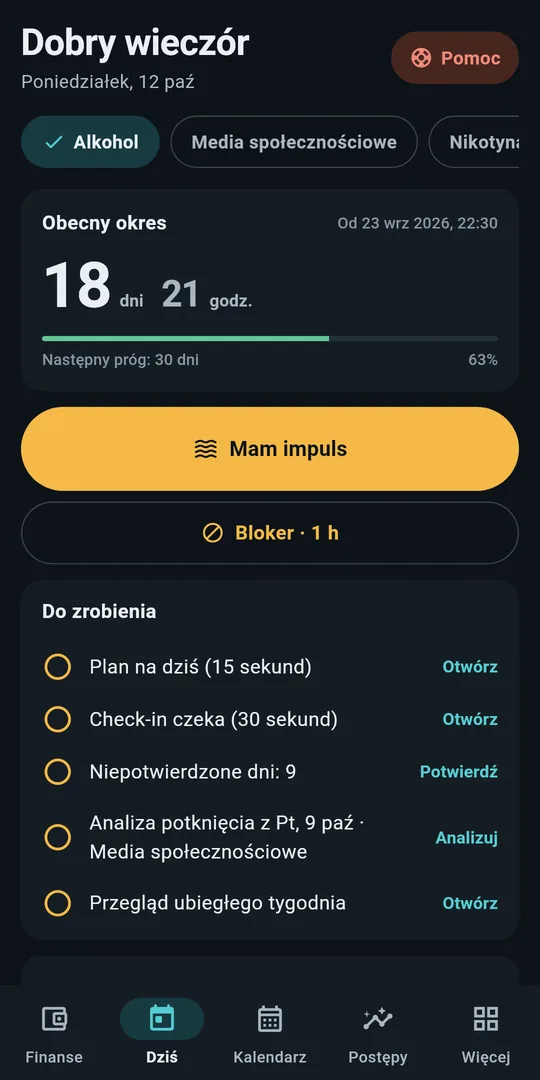
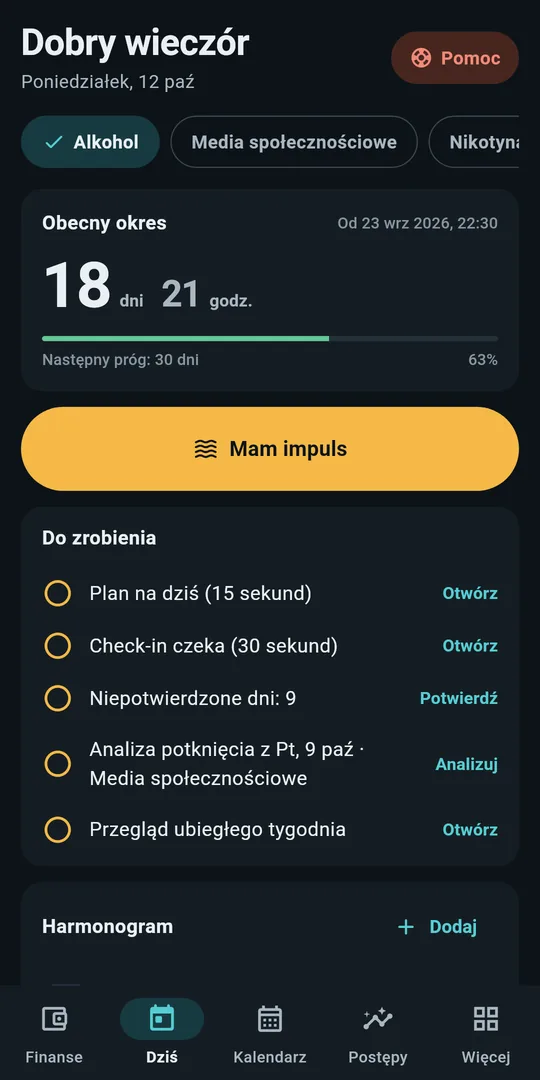
1.0.1: no BLOCKER and no VPN in the texts, new screenshots, policy of 21.10.2026
Claude-Session: https://claude.ai/code/session_017k2PQbtUGT3zDuM8wkJLTG

diff --git a/privacy-policy.html b/privacy-policy.html
@@ -16,7 +16,7 @@ h1 { font-size: 1.5rem; margin-top: 2.5rem; } h2 { font-size: 1.1rem; margin-top
 <body>
 <section lang="en">
 <h1>CONTROL — Privacy Policy</h1>
-<p class="date">Last updated: 2026-10-20</p>
+<p class="date">Last updated: 2026-10-21</p>
 <h2>In short</h2>
 <p>CONTROL works entirely on your phone. Everything you enter stays in the app’s private storage on your device. The developer does not collect, receive, store, sell or share any personal data, and the app contains no advertising, analytics, crash reporting or tracking code.</p>
 <h2>What you enter and where it is kept</h2>
@@ -26,11 +26,11 @@ h1 { font-size: 1.5rem; margin-top: 2.5rem; } h2 { font-size: 1.1rem; margin-top
 <h2>Backup files</h2>
 <p>If you choose to export a backup, the app writes one JSON file to a location you pick in the system file picker. The file is not encrypted. Where it goes after that, and who can read it, is under your control. Importing reads only the file you choose.</p>
 <h2>Price and payment</h2>
-<p>CONTROL has a free version with no time limit: addictions with the urge protocol, the Blocker and the help numbers, habits, health, money and the backup of your data. CONTROL Pro, a yearly subscription bought through Google Play, adds the planner, work and pay, goals, focus, vehicles, bills and shopping. New subscribers can try Pro free for the period shown before buying; Google Play charges only when that period ends, unless you cancel earlier in Google Play, and the app reminds you two days before. There is no advertising. Google Play handles the payment under Google’s own privacy policy. The developer never sees your card details; Google Play reports only the order information it gives every seller (such as the order number, date, price and country) for accounting, taxes and refunds, and nothing you enter in CONTROL is part of it. To check the subscription, CONTROL asks the Play Store app on your phone, over a connection inside the phone, whether it is active; CONTROL itself sends nothing. For this the app holds the Google Play billing permission and, added by Google’s billing library, the permission to see whether a network connection exists; neither lets CONTROL send anything.</p>
+<p>CONTROL has a free version with no time limit: addictions with the urge protocol and the help numbers, habits, health, money and the backup of your data. CONTROL Pro, a yearly subscription bought through Google Play, adds the planner, work and pay, goals, focus, vehicles, bills and shopping. New subscribers can try Pro free for the period shown before buying; Google Play charges only when that period ends, unless you cancel earlier in Google Play, and the app reminds you two days before. There is no advertising. Google Play handles the payment under Google’s own privacy policy. The developer never sees your card details; Google Play reports only the order information it gives every seller (such as the order number, date, price and country) for accounting, taxes and refunds, and nothing you enter in CONTROL is part of it. To check the subscription, CONTROL asks the Play Store app on your phone, over a connection inside the phone, whether it is active; CONTROL itself sends nothing. For this the app holds the Google Play billing permission and, added by Google’s billing library, the permission to see whether a network connection exists; neither lets CONTROL send anything.</p>
 <h2>Rating the app</h2>
 <p>After at least a week of use, CONTROL may ask you once whether you want to rate it. That window belongs to the Play Store app on your phone: what you choose there goes to Google under Google’s terms, and CONTROL never learns whether or how you rated it. “Rate CONTROL” in Settings opens the app’s page in the Play Store.</p>
 <h2>Permissions</h2>
-<p>Notifications: reminders you switch on, the end of the urge timer and ringing alarms. Alarms and reminders: to ring CONTROL’s alarms and show those notifications on time. Start after reboot: to restore reminders and alarms. Biometrics: only if you turn on fingerprint or face unlock for the app lock; the fingerprint or face never reaches the app. VPN and a foreground service: only while you run the Blocker, which uses Android’s VPN function as a switch that cuts the internet of the apps you chose for the time you chose; their traffic is dropped inside the phone and is never read, recorded or sent anywhere. Help numbers and support people open the phone’s dialler or messaging app with the number or a ready message filled in; nothing is called or sent until you press call or send there. The home-screen widget can show the number of days of your current run, never the name of the addiction; you can turn this off. Set an alarm: “Set an alarm in Clock” opens the phone’s clock app with the time filled in. To show the next alarm, CONTROL reads only its time and the name of the app that set it, which Android gives to every app; this is shown, not stored. Calendar: only if you connect the phone calendar in the planner (see below). Health data: only if you connect it (see below).</p>
+<p>Notifications: reminders you switch on, the end of the urge timer and ringing alarms. Alarms and reminders: to ring CONTROL’s alarms and show those notifications on time. Start after reboot: to restore reminders and alarms. Biometrics: only if you turn on fingerprint or face unlock for the app lock; the fingerprint or face never reaches the app. Help numbers and support people open the phone’s dialler or messaging app with the number or a ready message filled in; nothing is called or sent until you press call or send there. The home-screen widget can show the number of days of your current run, never the name of the addiction; you can turn this off. Set an alarm: “Set an alarm in Clock” opens the phone’s clock app with the time filled in. To show the next alarm, CONTROL reads only its time and the name of the app that set it, which Android gives to every app; this is shown, not stored. Calendar: only if you connect the phone calendar in the planner (see below). Health data: only if you connect it (see below).</p>
 <h2>Phone calendar (optional)</h2>
 <p>If you connect the phone calendar in the planner, CONTROL asks for the calendar permission. It then reads the entries of the calendars you choose to show, so that they appear in the planner, and saves the entries you add or change in CONTROL to the calendar you pick. CONTROL keeps no copy of your calendar entries, only the marks of which ones you ticked off. CONTROL itself still has no internet permission. Whether an entry leaves the phone depends only on the calendar it is in: a calendar of an online account (for example Google) is synced by that account under its own rules, while the “CONTROL” calendar the app creates is local and never synced. You can disconnect at any time in the planner, and withdraw the permission in Android settings.</p>
 <h2>Health data (optional)</h2>
@@ -53,7 +53,7 @@ h1 { font-size: 1.5rem; margin-top: 2.5rem; } h2 { font-size: 1.1rem; margin-top
 <hr>
 <section lang="pl">
 <h1>CONTROL — Polityka prywatności</h1>
-<p class="date">Ostatnia aktualizacja: 2026-10-20</p>
+<p class="date">Ostatnia aktualizacja: 2026-10-21</p>
 <h2>W skrócie</h2>
 <p>CONTROL działa w całości na Twoim telefonie. Wszystko, co wpisujesz, zostaje w prywatnej pamięci aplikacji na Twoim urządzeniu. Twórca nie zbiera, nie otrzymuje, nie przechowuje, nie sprzedaje i nie udostępnia żadnych danych osobowych, a aplikacja nie zawiera kodu reklam, analityki, raportowania błędów ani śledzenia.</p>
 <h2>Co wpisujesz i gdzie to jest przechowywane</h2>
@@ -63,11 +63,11 @@ h1 { font-size: 1.5rem; margin-top: 2.5rem; } h2 { font-size: 1.1rem; margin-top
 <h2>Pliki kopii zapasowej</h2>
 <p>Jeśli zdecydujesz się wyeksportować kopię, aplikacja zapisze jeden plik JSON w miejscu, które wskażesz w systemowym oknie wyboru. Plik nie jest szyfrowany. To, gdzie trafi dalej i kto może go odczytać, zależy od Ciebie. Import odczytuje wyłącznie wskazany przez Ciebie plik.</p>
 <h2>Cena i płatność</h2>
-<p>CONTROL ma wersję bezpłatną bez limitu czasu: nałogi z protokołem impulsu, Blokerem i numerami pomocy, nawyki, zdrowie, pieniądze i kopię Twoich danych. CONTROL Pro, subskrypcja roczna kupowana przez Google Play, dodaje planer, pracę z wypłatą, cele, skupienie, pojazdy, rachunki i zakupy. Nowi subskrybenci mogą wypróbować Pro bezpłatnie przez okres pokazany przed zakupem; Google Play pobiera opłatę dopiero po jego końcu, chyba że wcześniej anulujesz w Google Play, a aplikacja przypomina o tym dwa dni wcześniej. Aplikacja nie zawiera reklam. Płatność obsługuje Google Play według polityki prywatności Google. Twórca nigdy nie widzi danych Twojej karty; Google Play przekazuje mu tylko informacje o zamówieniu, które dostaje każdy sprzedawca (na przykład numer zamówienia, datę, cenę i kraj), do księgowości, podatków i zwrotów, i nic, co wpisujesz w CONTROL, nie jest ich częścią. Aby sprawdzić subskrypcję, CONTROL pyta aplikację Sklep Play na Twoim telefonie, przez połączenie wewnątrz telefonu, czy jest aktywna; sam CONTROL niczego nie wysyła. Do tego aplikacja ma uprawnienie do płatności Google Play oraz, dodane przez bibliotekę płatności Google, uprawnienie do sprawdzenia, czy jest połączenie z siecią; żadne z nich nie pozwala CONTROL niczego wysłać.</p>
+<p>CONTROL ma wersję bezpłatną bez limitu czasu: nałogi z protokołem impulsu i numerami pomocy, nawyki, zdrowie, pieniądze i kopię Twoich danych. CONTROL Pro, subskrypcja roczna kupowana przez Google Play, dodaje planer, pracę z wypłatą, cele, skupienie, pojazdy, rachunki i zakupy. Nowi subskrybenci mogą wypróbować Pro bezpłatnie przez okres pokazany przed zakupem; Google Play pobiera opłatę dopiero po jego końcu, chyba że wcześniej anulujesz w Google Play, a aplikacja przypomina o tym dwa dni wcześniej. Aplikacja nie zawiera reklam. Płatność obsługuje Google Play według polityki prywatności Google. Twórca nigdy nie widzi danych Twojej karty; Google Play przekazuje mu tylko informacje o zamówieniu, które dostaje każdy sprzedawca (na przykład numer zamówienia, datę, cenę i kraj), do księgowości, podatków i zwrotów, i nic, co wpisujesz w CONTROL, nie jest ich częścią. Aby sprawdzić subskrypcję, CONTROL pyta aplikację Sklep Play na Twoim telefonie, przez połączenie wewnątrz telefonu, czy jest aktywna; sam CONTROL niczego nie wysyła. Do tego aplikacja ma uprawnienie do płatności Google Play oraz, dodane przez bibliotekę płatności Google, uprawnienie do sprawdzenia, czy jest połączenie z siecią; żadne z nich nie pozwala CONTROL niczego wysłać.</p>
 <h2>Ocena aplikacji</h2>
 <p>Po co najmniej tygodniu używania CONTROL może raz zapytać, czy chcesz go ocenić. To okno należy do aplikacji Sklep Play na Twoim telefonie: to, co tam wybierzesz, trafia do Google na zasadach Google, a CONTROL nigdy nie wie, czy ani jak go oceniłeś. „Oceń CONTROL” w Ustawieniach otwiera stronę aplikacji w Sklepie Play.</p>
 <h2>Uprawnienia</h2>
-<p>Powiadomienia: przypomnienia, które włączysz, koniec timera impulsu i dzwoniące budziki. Alarmy i przypomnienia: aby budziki CONTROL dzwoniły, a powiadomienia pojawiały się na czas. Uruchomienie po restarcie: aby przywrócić przypomnienia i budziki. Biometria: tylko jeśli włączysz odblokowanie odciskiem lub twarzą; sam odcisk ani twarz nigdy nie trafiają do aplikacji. VPN i usługa na pierwszym planie: tylko gdy uruchomisz Bloker, który używa funkcji VPN Androida jako przełącznika odcinającego internet wybranym przez Ciebie aplikacjom na wybrany czas; ich ruch jest odrzucany wewnątrz telefonu i nigdy nie jest odczytywany, zapisywany ani nigdzie wysyłany. Numery pomocy i osoby wsparcia otwierają wybierak numeru albo aplikację do wiadomości z wpisanym numerem lub gotową wiadomością; nic nie jest wybierane ani wysyłane, dopóki tam nie naciśniesz zadzwoń lub wyślij. Widżet na ekranie głównym może pokazywać liczbę dni obecnego okresu, nigdy nazwę nałogu; można to wyłączyć. Ustawianie budzika: „Ustaw budzik w Zegarze” otwiera aplikację Zegar z wpisaną godziną. Aby pokazać najbliższy budzik, CONTROL odczytuje tylko jego godzinę i nazwę aplikacji, która go ustawiła — Android udostępnia to każdej aplikacji; jest to pokazywane, a nie zapisywane. Kalendarz: tylko jeśli połączysz kalendarz telefonu w planerze (niżej). Dane o zdrowiu: tylko jeśli je połączysz (niżej).</p>
+<p>Powiadomienia: przypomnienia, które włączysz, koniec timera impulsu i dzwoniące budziki. Alarmy i przypomnienia: aby budziki CONTROL dzwoniły, a powiadomienia pojawiały się na czas. Uruchomienie po restarcie: aby przywrócić przypomnienia i budziki. Biometria: tylko jeśli włączysz odblokowanie odciskiem lub twarzą; sam odcisk ani twarz nigdy nie trafiają do aplikacji. Numery pomocy i osoby wsparcia otwierają wybierak numeru albo aplikację do wiadomości z wpisanym numerem lub gotową wiadomością; nic nie jest wybierane ani wysyłane, dopóki tam nie naciśniesz zadzwoń lub wyślij. Widżet na ekranie głównym może pokazywać liczbę dni obecnego okresu, nigdy nazwę nałogu; można to wyłączyć. Ustawianie budzika: „Ustaw budzik w Zegarze” otwiera aplikację Zegar z wpisaną godziną. Aby pokazać najbliższy budzik, CONTROL odczytuje tylko jego godzinę i nazwę aplikacji, która go ustawiła — Android udostępnia to każdej aplikacji; jest to pokazywane, a nie zapisywane. Kalendarz: tylko jeśli połączysz kalendarz telefonu w planerze (niżej). Dane o zdrowiu: tylko jeśli je połączysz (niżej).</p>
 <h2>Kalendarz telefonu (opcjonalnie)</h2>
 <p>Jeśli połączysz kalendarz telefonu w planerze, CONTROL poprosi o uprawnienie do kalendarza. Wtedy odczytuje wpisy kalendarzy, które wybierzesz do pokazania, aby były widoczne w planerze, i zapisuje wpisy dodane lub zmienione w CONTROL w kalendarzu, który wskażesz. CONTROL nie przechowuje kopii wpisów z kalendarza, tylko oznaczenia, które z nich odhaczyłeś. Sam CONTROL nadal nie ma uprawnienia do internetu. To, czy wpis opuszcza telefon, zależy wyłącznie od kalendarza, w którym się znajduje: kalendarz konta internetowego (na przykład Google) jest synchronizowany przez to konto według jego zasad, a kalendarz „CONTROL” tworzony przez aplikację jest lokalny i nigdy nie jest synchronizowany. Możesz się rozłączyć w każdej chwili w planerze, a uprawnienie cofnąć w ustawieniach Androida.</p>
 <h2>Dane o zdrowiu (opcjonalnie)</h2>

diff --git a/en/index.html b/en/index.html
@@ -34,7 +34,7 @@
 <section aria-labelledby="inside">
 <h2 id="inside">What&#x27;s inside</h2>
 <div class="features">
-<div class="feature"><div class="phone"><img src="../img/en-01-dashboard.webp" alt="" width="540" height="1080" loading="lazy"></div><h3>Your day</h3><p>The Today screen: the day plan, payments to book, habits and a 30-second check-in. Habits tick themselves off from your watch data.</p></div><div class="feature"><div class="phone"><img src="../img/en-02-urge.webp" alt="" width="540" height="1080" loading="lazy"></div><h3>When an urge comes</h3><p>A protocol for the next few minutes, the BLOCKER for apps and help numbers at hand. A lapse is data to learn from, not a reason for shame.</p></div><div class="feature"><div class="phone"><img src="../img/en-38-watches.webp" alt="" width="540" height="1080" loading="lazy"></div><h3>Health from your watch</h3><p>Sleep, steps and heart rate from Garmin, Samsung, Fitbit and more. You choose which app the data comes from.</p></div>
+<div class="feature"><div class="phone"><img src="../img/en-01-dashboard.webp" alt="" width="540" height="1080" loading="lazy"></div><h3>Your day</h3><p>The Today screen: the day plan, payments to book, habits and a 30-second check-in. Habits tick themselves off from your watch data.</p></div><div class="feature"><div class="phone"><img src="../img/en-02-urge.webp" alt="" width="540" height="1080" loading="lazy"></div><h3>When an urge comes</h3><p>A protocol for the next few minutes, people you trust and help numbers at hand. A lapse is data to learn from, not a reason for shame.</p></div><div class="feature"><div class="phone"><img src="../img/en-38-watches.webp" alt="" width="540" height="1080" loading="lazy"></div><h3>Health from your watch</h3><p>Sleep, steps and heart rate from Garmin, Samsung, Fitbit and more. You choose which app the data comes from.</p></div>
 </div>
 <p class="modules dim">CONTROL Pro adds a planner with alarms, shift work with pay, goals, focus, vehicles (inspection, insurance, service, fuel use), bills (due dates, automatic payments, the history of prices) and shopping (lists, the cart in the shop, one payment in Money).</p>
 </section>
@@ -43,14 +43,14 @@
 <h2 id="perm">What CONTROL can do on your phone</h2>
 <p class="dim" style="max-width:var(--measure)">Every permission of an Android app is public. This is the full list of the release version, with what each one is for.</p>
 <ul class="ledger">
-<li class="absent"><code>INTERNET</code><span>Not there. CONTROL has no way to send anything: not your data, not statistics, not ads.</span></li><li><code>POST_NOTIFICATIONS</code><span>Reminders for the check-in, habits, payments and the day plan, ringing alarms.</span></li><li><code>SCHEDULE_EXACT_ALARM</code><span>Alarms and reminders that ring on time.</span></li><li><code>com.android.alarm.permission.SET_ALARM</code><span>&quot;Set an alarm in Clock&quot;: opens the phone&#x27;s Clock with the time filled in.</span></li><li><code>RECEIVE_BOOT_COMPLETED</code><span>Puts reminders and alarms back after a restart.</span></li><li><code>USE_BIOMETRIC</code><span>Locking the app with your fingerprint, if you turn it on.</span></li><li><code>FOREGROUND_SERVICE, FOREGROUND_SERVICE_SYSTEM_EXEMPTED</code><span>The BLOCKER, while you run it: a local VPN on the phone that cuts off the apps you chose. It reads nothing and sends nothing.</span></li><li><code>READ_CALENDAR, WRITE_CALENDAR</code><span>The phone&#x27;s calendar in the planner, only if you connect it.</span></li><li><code>health.READ_SLEEP, health.READ_STEPS, health.READ_EXERCISE, health.READ_HEART_RATE, health.READ_RESTING_HEART_RATE, health.READ_HEART_RATE_VARIABILITY</code><span>Sleep, steps, workouts and heart rate from your watch through Health Connect, if you connect it. Read only.</span></li><li><code>PACKAGE_USAGE_STATS</code><span>Screen time, if you allow it.</span></li><li><code>com.android.vending.BILLING, ACCESS_NETWORK_STATE</code><span>The subscription through the Play Store app on the phone (Google&#x27;s billing library). Neither lets CONTROL send data.</span></li>
+<li class="absent"><code>INTERNET</code><span>Not there. CONTROL has no way to send anything: not your data, not statistics, not ads.</span></li><li><code>POST_NOTIFICATIONS</code><span>Reminders for the check-in, habits, payments and the day plan, ringing alarms.</span></li><li><code>SCHEDULE_EXACT_ALARM</code><span>Alarms and reminders that ring on time.</span></li><li><code>com.android.alarm.permission.SET_ALARM</code><span>&quot;Set an alarm in Clock&quot;: opens the phone&#x27;s Clock with the time filled in.</span></li><li><code>RECEIVE_BOOT_COMPLETED</code><span>Puts reminders and alarms back after a restart.</span></li><li><code>USE_BIOMETRIC</code><span>Locking the app with your fingerprint, if you turn it on.</span></li><li><code>READ_CALENDAR, WRITE_CALENDAR</code><span>The phone&#x27;s calendar in the planner, only if you connect it.</span></li><li><code>health.READ_SLEEP, health.READ_STEPS, health.READ_EXERCISE, health.READ_HEART_RATE, health.READ_RESTING_HEART_RATE, health.READ_HEART_RATE_VARIABILITY</code><span>Sleep, steps, workouts and heart rate from your watch through Health Connect, if you connect it. Read only.</span></li><li><code>PACKAGE_USAGE_STATS</code><span>Screen time, if you allow it.</span></li><li><code>com.android.vending.BILLING, ACCESS_NETWORK_STATE</code><span>The subscription through the Play Store app on the phone (Google&#x27;s billing library). Neither lets CONTROL send data.</span></li>
 </ul>
 </section>
 
 <section aria-labelledby="price">
 <h2 id="price">Price</h2>
 <div class="prices">
-<div class="price"><h3>The free version, for good</h3><p>Money (accounts, expenses, income, currencies, savings and investments, an analysis over months and years), addictions with the urge protocol, the BLOCKER and analyses, habits, health from your watch and the backup. No time limit and no ads.</p></div>
+<div class="price"><h3>The free version, for good</h3><p>Money (accounts, expenses, income, currencies, savings and investments, an analysis over months and years), addictions with the urge protocol and analyses, habits, health from your watch and the backup. No time limit and no ads.</p></div>
 <div class="price pro"><h3>CONTROL Pro, one yearly price</h3><p>A planner with alarms, shift work with pay, goals, focus, vehicles, bills and shopping. New subscribers get 30 days free, and the app reminds them two days before the first payment. Cancel in Google Play.</p><p>The price follows purchasing power in each country, for example $34.99 a year in the US.</p></div>
 </div>
 </section>

diff --git a/index.html b/index.html
@@ -34,7 +34,7 @@
 <section aria-labelledby="inside">
 <h2 id="inside">Co jest w środku</h2>
 <div class="features">
-<div class="feature"><div class="phone"><img src="img/pl-01-dashboard.webp" alt="" width="540" height="1080" loading="lazy"></div><h3>Twój dzień</h3><p>Ekran Dziś: plan dnia, płatności do zaksięgowania, nawyki i check-in w 30 sekund. Nawyki odhaczają się same z danych zegarka.</p></div><div class="feature"><div class="phone"><img src="img/pl-02-urge.webp" alt="" width="540" height="1080" loading="lazy"></div><h3>Gdy przychodzi chęć</h3><p>Protokół na kilkanaście minut, BLOKER aplikacji i numery pomocy pod ręką. Potknięcie to dane do analizy, nie powód do wstydu.</p></div><div class="feature"><div class="phone"><img src="img/pl-38-watches.webp" alt="" width="540" height="1080" loading="lazy"></div><h3>Zdrowie z zegarka</h3><p>Sen, kroki i tętno z Garmina, Samsunga, Fitbita i innych. Ty wybierasz, z której aplikacji brać dane.</p></div>
+<div class="feature"><div class="phone"><img src="img/pl-01-dashboard.webp" alt="" width="540" height="1080" loading="lazy"></div><h3>Twój dzień</h3><p>Ekran Dziś: plan dnia, płatności do zaksięgowania, nawyki i check-in w 30 sekund. Nawyki odhaczają się same z danych zegarka.</p></div><div class="feature"><div class="phone"><img src="img/pl-02-urge.webp" alt="" width="540" height="1080" loading="lazy"></div><h3>Gdy przychodzi chęć</h3><p>Protokół na kilkanaście minut, osoby wsparcia i numery pomocy pod ręką. Potknięcie to dane do analizy, nie powód do wstydu.</p></div><div class="feature"><div class="phone"><img src="img/pl-38-watches.webp" alt="" width="540" height="1080" loading="lazy"></div><h3>Zdrowie z zegarka</h3><p>Sen, kroki i tętno z Garmina, Samsunga, Fitbita i innych. Ty wybierasz, z której aplikacji brać dane.</p></div>
 </div>
 <p class="modules dim">W CONTROL Pro także planer z budzikami, praca zmianowa z wypłatą, cele, skupienie, pojazdy (badania, ubezpieczenie, serwis, spalanie), rachunki (terminy, płatności automatyczne, historia cen) i zakupy (listy, koszyk w sklepie, jedna płatność w Finansach).</p>
 </section>
@@ -43,14 +43,14 @@
 <h2 id="perm">Co CONTROL może zrobić na Twoim telefonie</h2>
 <p class="dim" style="max-width:var(--measure)">Każde uprawnienie aplikacji na Androidzie jest jawne. To jest pełna lista z wersji wydania, z tym, do czego służy.</p>
 <ul class="ledger">
-<li class="absent"><code>INTERNET</code><span>Nie ma. CONTROL nie ma jak niczego wysłać: ani Twoich danych, ani statystyk, ani reklam.</span></li><li><code>POST_NOTIFICATIONS</code><span>Przypomnienia o check-inie, nawykach, płatnościach i planie dnia, dzwoniące budziki.</span></li><li><code>SCHEDULE_EXACT_ALARM</code><span>Budziki i przypomnienia dokładnie o czasie.</span></li><li><code>com.android.alarm.permission.SET_ALARM</code><span>„Ustaw budzik w Zegarze”: otwiera Zegar telefonu z wpisaną godziną.</span></li><li><code>RECEIVE_BOOT_COMPLETED</code><span>Przywraca przypomnienia i budziki po restarcie telefonu.</span></li><li><code>USE_BIOMETRIC</code><span>Blokada aplikacji odciskiem palca, jeśli ją włączysz.</span></li><li><code>FOREGROUND_SERVICE, FOREGROUND_SERVICE_SYSTEM_EXEMPTED</code><span>BLOKER, gdy go uruchomisz: lokalny VPN na telefonie, który odcina wybrane aplikacje. Nic nie czyta i nic nie wysyła.</span></li><li><code>READ_CALENDAR, WRITE_CALENDAR</code><span>Kalendarz telefonu w planerze, tylko jeśli go połączysz.</span></li><li><code>health.READ_SLEEP, health.READ_STEPS, health.READ_EXERCISE, health.READ_HEART_RATE, health.READ_RESTING_HEART_RATE, health.READ_HEART_RATE_VARIABILITY</code><span>Sen, kroki, treningi i tętno z zegarka przez Health Connect, jeśli je połączysz. Tylko odczyt.</span></li><li><code>PACKAGE_USAGE_STATS</code><span>Czas przed ekranem, jeśli na to pozwolisz.</span></li><li><code>com.android.vending.BILLING, ACCESS_NETWORK_STATE</code><span>Subskrypcja przez aplikację Sklep Play na telefonie (biblioteka płatności Google). Żadne z nich nie pozwala CONTROL wysyłać danych.</span></li>
+<li class="absent"><code>INTERNET</code><span>Nie ma. CONTROL nie ma jak niczego wysłać: ani Twoich danych, ani statystyk, ani reklam.</span></li><li><code>POST_NOTIFICATIONS</code><span>Przypomnienia o check-inie, nawykach, płatnościach i planie dnia, dzwoniące budziki.</span></li><li><code>SCHEDULE_EXACT_ALARM</code><span>Budziki i przypomnienia dokładnie o czasie.</span></li><li><code>com.android.alarm.permission.SET_ALARM</code><span>„Ustaw budzik w Zegarze”: otwiera Zegar telefonu z wpisaną godziną.</span></li><li><code>RECEIVE_BOOT_COMPLETED</code><span>Przywraca przypomnienia i budziki po restarcie telefonu.</span></li><li><code>USE_BIOMETRIC</code><span>Blokada aplikacji odciskiem palca, jeśli ją włączysz.</span></li><li><code>READ_CALENDAR, WRITE_CALENDAR</code><span>Kalendarz telefonu w planerze, tylko jeśli go połączysz.</span></li><li><code>health.READ_SLEEP, health.READ_STEPS, health.READ_EXERCISE, health.READ_HEART_RATE, health.READ_RESTING_HEART_RATE, health.READ_HEART_RATE_VARIABILITY</code><span>Sen, kroki, treningi i tętno z zegarka przez Health Connect, jeśli je połączysz. Tylko odczyt.</span></li><li><code>PACKAGE_USAGE_STATS</code><span>Czas przed ekranem, jeśli na to pozwolisz.</span></li><li><code>com.android.vending.BILLING, ACCESS_NETWORK_STATE</code><span>Subskrypcja przez aplikację Sklep Play na telefonie (biblioteka płatności Google). Żadne z nich nie pozwala CONTROL wysyłać danych.</span></li>
 </ul>
 </section>
 
 <section aria-labelledby="price">
 <h2 id="price">Cena</h2>
 <div class="prices">
-<div class="price"><h3>Wersja bezpłatna, na zawsze</h3><p>Pieniądze (konta, wydatki, przychody, waluty, oszczędności i inwestycje, analiza z miesięcy i lat), nałogi z protokołem impulsu, BLOKEREM i analizami, nawyki, zdrowie z zegarka i kopia zapasowa. Bez limitu czasu i bez reklam.</p></div>
+<div class="price"><h3>Wersja bezpłatna, na zawsze</h3><p>Pieniądze (konta, wydatki, przychody, waluty, oszczędności i inwestycje, analiza z miesięcy i lat), nałogi z protokołem impulsu i analizami, nawyki, zdrowie z zegarka i kopia zapasowa. Bez limitu czasu i bez reklam.</p></div>
 <div class="price pro"><h3>CONTROL Pro, 70 zł rocznie</h3><p>Planer z budzikami, praca zmianowa z wypłatą, cele, skupienie, pojazdy, rachunki i zakupy. Nowi subskrybenci mają 30 dni za darmo, a aplikacja przypomina o płatności dwa dni wcześniej. Anulujesz w Google Play.</p><p>W innych krajach cena jest dopasowana do siły nabywczej.</p></div>
 </div>
 </section>
